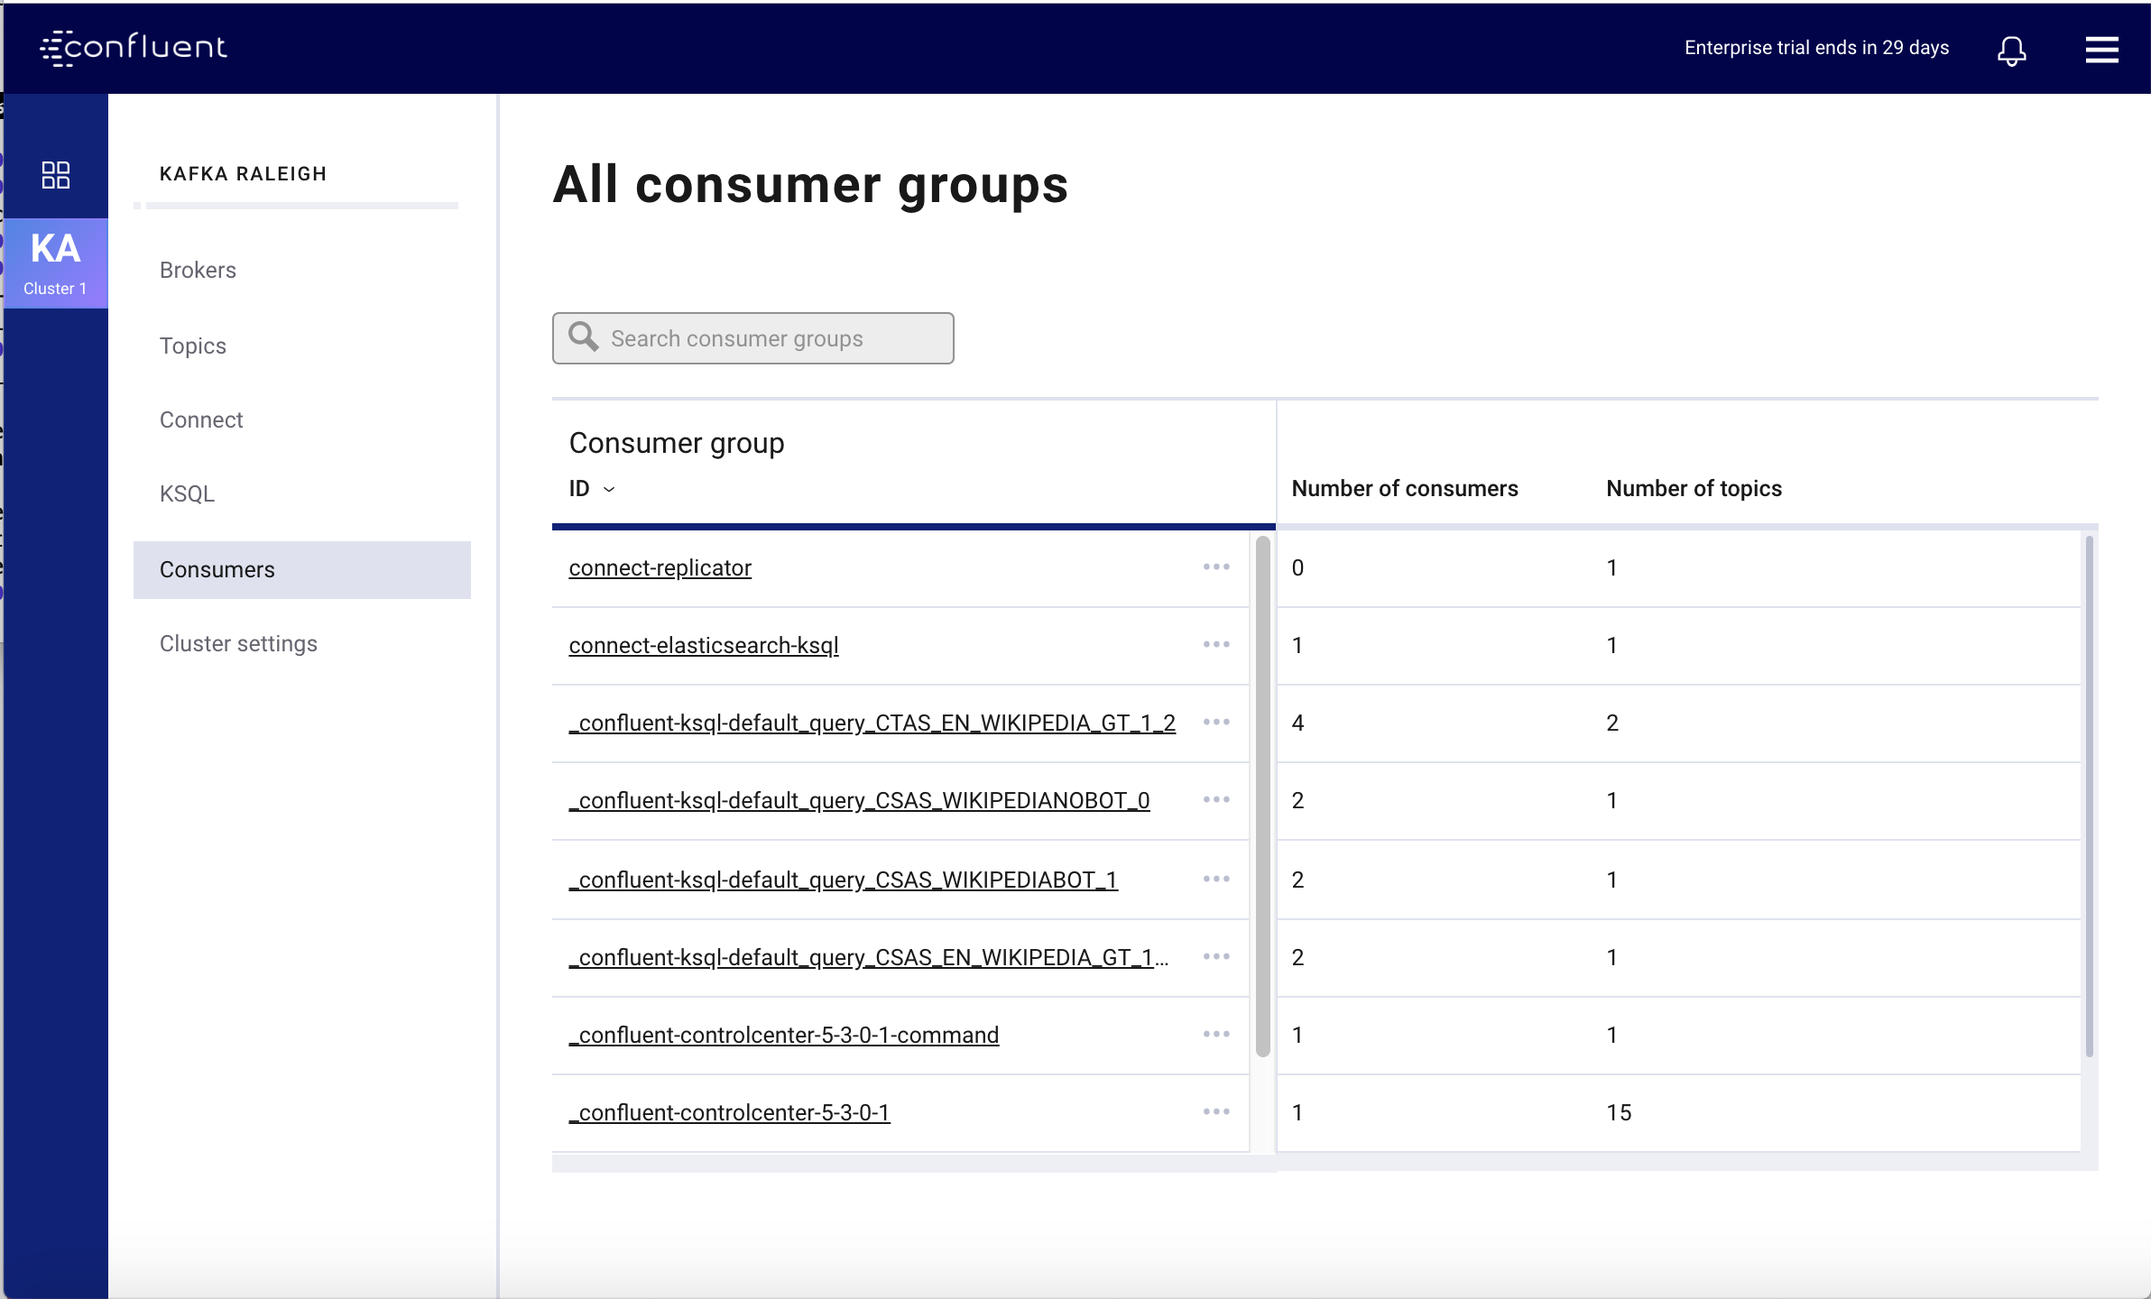
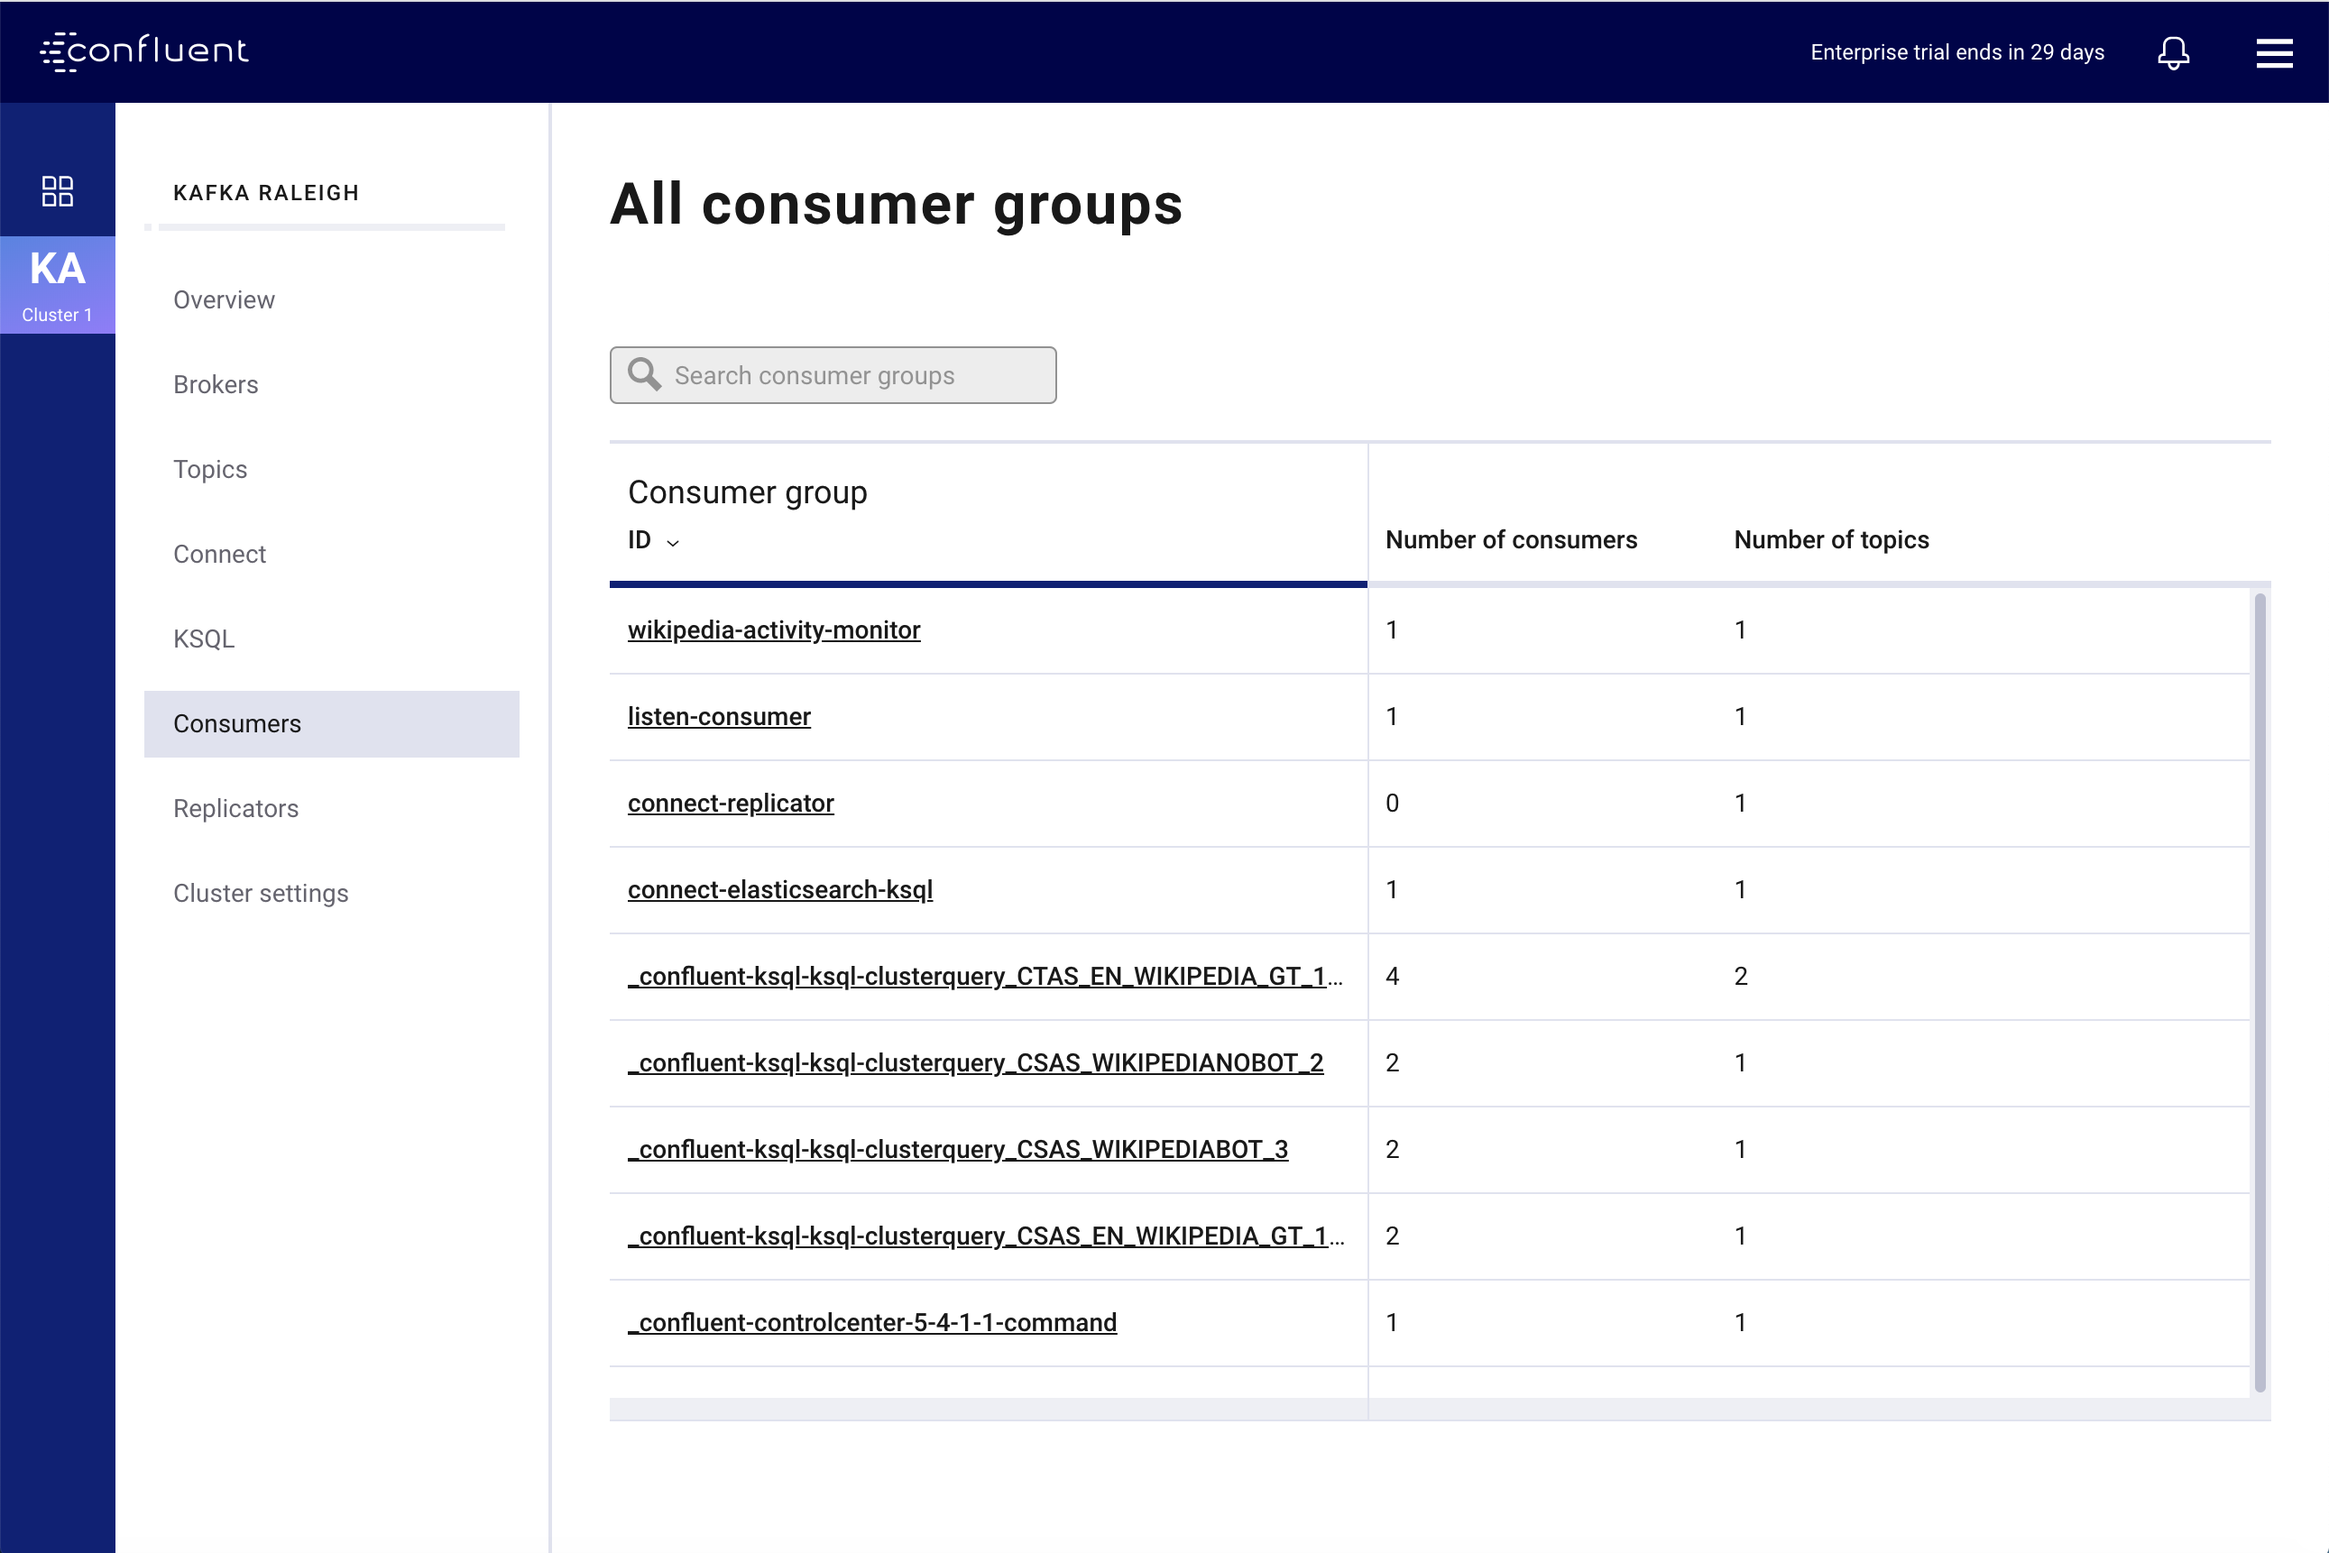
Address remaining feedback from Dave

diff --git a/docs/index.rst b/docs/index.rst
@@ -275,12 +275,12 @@ In this demo, KSQL is authenticated and authorized to connect to the secured Kaf
 
         docker-compose exec ksql-cli bash -c 'ksql -u ksqlUser -p ksqlUser http://ksql-server:8088'
 
-#. View the existing KSQL streams. (If you are using the KSQL CLI, at the ``ksql>`` prompt type ``SHOW STREAMS;``).
+#. View the existing KSQL streams. (If you are using the KSQL CLI, at the ``ksql>`` prompt type ``SHOW STREAMS;``)
 
    .. figure:: images/ksql_streams_list.png
       :alt: image
 
-#. Describe the schema (fields or columns) and source and sink of an existing KSQL stream. Click on ``WIKIPEDIA``.
+#. Click on ``WIKIPEIDA`` to describe the schema (fields or columns) of an existing KSQL stream. (If you are using the KSQL CLI, at the ``ksql>`` prompt type ``DESCRIBE WIKIPEIDA;``)
 
    .. figure:: images/wikipedia_describe.png
       :alt: image
@@ -307,15 +307,15 @@ In this demo, KSQL is authenticated and authorized to connect to the secured Kaf
 
 #. This demo creates two streams ``EN_WIKIPEDIA_GT_1`` and ``EN_WIKIPEDIA_GT_1_COUNTS``, and the reason is to demonstrate how KSQL windows work. ``EN_WIKIPEDIA_GT_1`` counts occurences with a tumbling window, and for a given key it writes a `null` into the table on the first seen message.  The underlying Kafka topic for ``EN_WIKIPEDIA_GT_1`` does not filter out those nulls, but since we want to send downstream just the counts greater than one, there is a separate Kafka topic for ````EN_WIKIPEDIA_GT_1_COUNTS`` which does filter out those nulls (e.g., the query has a clause ``where ROWTIME is not null``).  From the bash prompt, view those underlying Kafka topics.
 
-View messages in the topic ``EN_WIKIPEDIA_GT_1`` (jump to offset 0/partition 0), and notice the nulls:
+    - View messages in the topic ``EN_WIKIPEDIA_GT_1`` (jump to offset 0/partition 0), and notice the nulls:
 
-.. figure:: images/messages_in_EN_WIKIPEDIA_GT_1.png
-   :alt: image
+      .. figure:: images/messages_in_EN_WIKIPEDIA_GT_1.png
+         :alt: image
 
-For comparison, view messages in the topic ``EN_WIKIPEDIA_GT_1_COUNTS`` (jump to offset 0/partition 0), and notice no nulls:
+    - For comparison, view messages in the topic ``EN_WIKIPEDIA_GT_1_COUNTS`` (jump to offset 0/partition 0), and notice no nulls:
 
-.. figure:: images/messages_in_EN_WIKIPEDIA_GT_1_COUNTS.png
-   :alt: image
+      .. figure:: images/messages_in_EN_WIKIPEDIA_GT_1_COUNTS.png
+         :alt: image
 
 #. The `KSQL processing log <https://docs.confluent.io/current/ksql/docs/developer-guide/processing-log.html>`__ captures per-record errors during processing to help developers debug their KSQL queries. In this demo, the processing log uses mutual TLS (mTLS) authentication, as configured in the custom :devx-cp-demo:`log4j properties file|scripts/helper/log4j-secure.properties`, to write entries into a Kafka topic. To see it in action, in the KSQL editor run the following query for 20 seconds:
 
@@ -341,7 +341,7 @@ Consumers
    .. figure:: images/consumer_group_list.png
       :alt: image
 
-#. View consumer lag for the persistent KSQL "Create Stream As Select" query ``CSAS_WIKIPEDIABOT``, which is displayed as ``_confluent-ksql-default_query_CSAS_WIKIPEDIABOT_0`` in the consumer group list.
+#. View consumer lag for the persistent KSQL "Create Stream As Select" query ``CSAS_WIKIPEDIABOT``, which is displayed as ``_confluent-ksql-ksql-clusterquery_CSAS_WIKIPEDIABOT_3`` in the consumer group list.
 
    .. figure:: images/ksql_query_CSAS_WIKIPEDIABOT_consumer_lag.png
       :alt: image
@@ -422,17 +422,8 @@ solution, Confluent Replicator is also configured with security.
    .. figure:: images/replicator_consumption.png
       :alt: image
 
-#. **Topics**: scroll down to view the topics called
-   ``wikipedia.parsed`` (Replicator is consuming data from this topic)
-   and ``wikipedia.parsed.replica`` (Replicator automatically created this topic and is
-   copying data to it). Click on ``Consumer Groups`` for the topic
-   ``wikipedia.parsed`` and observe that one of the consumer groups is
-   called ``connect-replicator``.
-
-   .. figure:: images/replicator_topic_info.png
-
 #. **Connect**: pause the |crep| connector in **Settings**
-   by pressing the pause icon in the top right. This will stop
+   by pressing the pause icon in the top right and wait for 10 seconds until it takes effect.  This will stop
    consumption for the related consumer group.
 
    .. figure:: images/pause_connector_replicator.png
